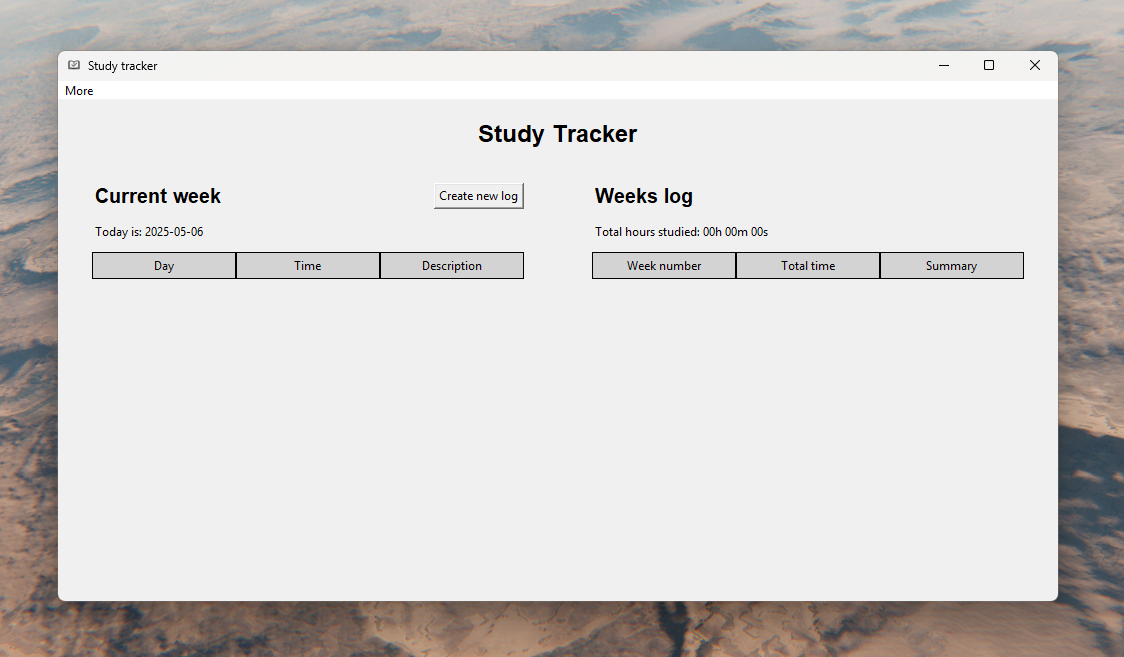
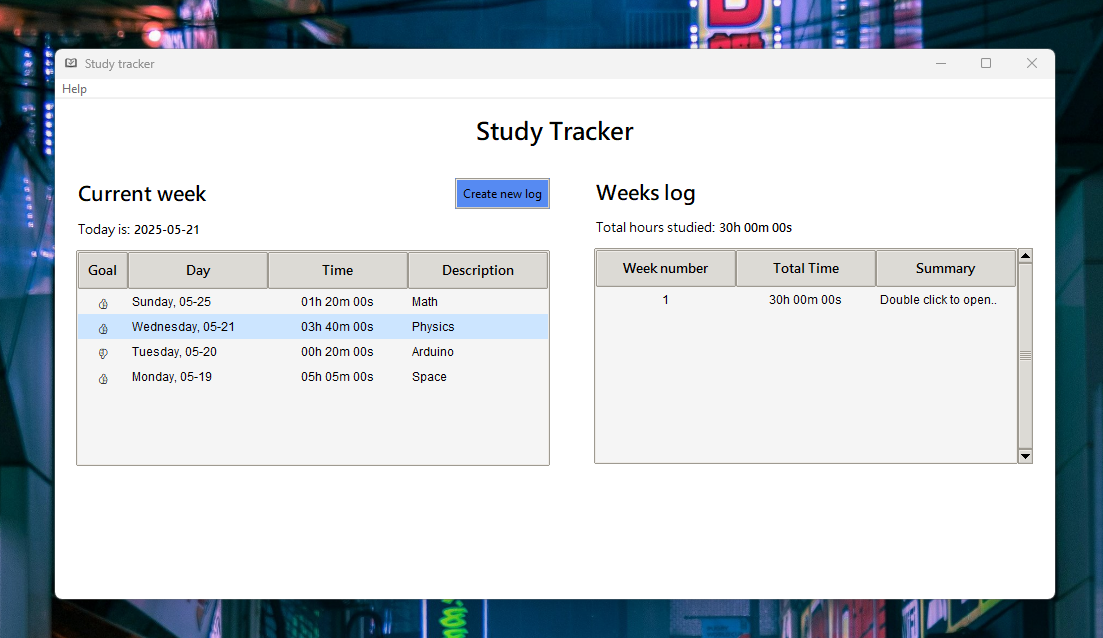
New improvements, bug fixes

diff --git a/src/main.py b/src/main.py
@@ -127,40 +127,90 @@ class Settings(tk.Toplevel):
     ttk.Label(self.frame_content, text="Settings", font=(StyleManager.get_current_font(), 16)).pack(padx=15, pady=15, anchor="nw")
     ttk.Separator(self.frame_content, orient="horizontal").pack(fill="x")
 
+    ############### APPEARANCE SECTION
     appearance_frame_content = ttk.Frame(self.frame_content)
-    appearance_frame_content.pack(pady=20)
+    appearance_frame_content.pack(side="top", pady=20)
     ttk.Label(appearance_frame_content, text="Appearance", font=(StyleManager.get_current_font(), 14, "bold")).pack(side="top", anchor="nw")
     ttk.Separator(appearance_frame_content, orient="horizontal").pack(side="top", fill="x", pady=10)
 
     frame_themes = ttk.Frame(appearance_frame_content)
     frame_themes.pack(side="top")
-    ttk.Label(frame_themes, text="Themes", anchor="w", width=20).pack(side="left")
+    ttk.Label(frame_themes, text="Themes", anchor="w", width=26).pack(side="left")
     themes_menu = ttk.Combobox(frame_themes, textvariable=self.current_theme_stringvar, values=StyleManager.get_all_themes(), width=20)
     themes_menu.pack(side="right")
     themes_menu.bind('<<ComboboxSelected>>', lambda event: change_theme(self.current_theme_stringvar.get()))
 
     frame_fonts = ttk.Frame(appearance_frame_content)
     frame_fonts.pack(side="top", pady=4)
-    ttk.Label(frame_fonts, text="Fonts", anchor="w", width=20).pack(side="left")
+    ttk.Label(frame_fonts, text="Fonts", anchor="w", width=26).pack(side="left")
     fonts_menu = ttk.Combobox(frame_fonts, textvariable=self.current_font_stringvar, values=StyleManager.get_all_fonts(), width=20)
     fonts_menu.pack(side="right")
     fonts_menu.bind('<<ComboboxSelected>>', lambda event: change_font(self.current_font_stringvar.get()))
 
+    ############### STUDY SETUP SECTION
     study_setup_content = ttk.Frame(self.frame_content)
-    study_setup_content.pack(pady=20)
+    study_setup_content.pack(side="top", pady=20)
     ttk.Label(study_setup_content, text="Study Setup", font=(StyleManager.get_current_font(), 14, "bold")).pack(side="top", anchor="nw")
     ttk.Separator(study_setup_content, orient="horizontal").pack(side="top", fill="x", pady=10)
-    ttk.Label(study_setup_content, text="Subjects", anchor="w", width=15).pack(side="left", anchor="nw")
 
-    frame_buttons_study_setup = ttk.Frame(study_setup_content)
+    frame_subjects = ttk.Frame(study_setup_content)
+    frame_subjects.pack(side="top", anchor="nw", pady=4)
+    ttk.Label(frame_subjects, text="Subjects", anchor="w", width=20).pack(side="left", anchor="nw")
+
+    frame_buttons_study_setup = ttk.Frame(frame_subjects)
     frame_buttons_study_setup.pack(side="right", anchor="nw")
     button_add_subject = ttk.Button(frame_buttons_study_setup, text="Add", width=5, command=lambda: self.add_subject())
-    button_add_subject.pack(side="top")
+    button_add_subject.pack(side="top", anchor="nw")
     button_delete_subject = ttk.Button(frame_buttons_study_setup, text="Del", width=5, style="Red.TButton", command=lambda: self.delete_subject())
     button_delete_subject.pack(side="top", pady=2)
 
-    self.listbox_subjects = tk.Listbox(study_setup_content, listvariable=self.subjects_available_stringvar, height=len(self.list_subjects_available))
+    self.listbox_subjects = tk.Listbox(frame_subjects, listvariable=self.subjects_available_stringvar, height=len(self.list_subjects_available))
     self.listbox_subjects.pack(side="right", padx=5, anchor="n")
+
+    frame_daily_goal = ttk.Frame(study_setup_content)
+    frame_daily_goal.pack(side="top", pady=4)
+    ttk.Label(frame_daily_goal, text="Daily goal", width=15).pack(side="left")
+
+    self.hours_inserted_stringvar = tk.StringVar()
+    self.minutes_inserted_stringvar = tk.StringVar()
+
+    with open(USER_CONFIG, "r") as readf:
+      data = json.load(readf)
+
+      self.hours_inserted_stringvar.set(data["session_goal"][0])
+      self.minutes_inserted_stringvar.set(data["session_goal"][1]) 
+
+      readf.close()
+
+    ttk.Button(frame_daily_goal, text="Apply", width=6, command=lambda: self.change_session_goal_time()).pack(side="right")
+
+    ttk.Label(frame_daily_goal, text="minutes").pack(side="right", padx=5)
+    ttk.Entry(frame_daily_goal, textvariable=self.minutes_inserted_stringvar, width=4).pack(side="right")
+
+    ttk.Label(frame_daily_goal, text="hours").pack(side="right", padx=5)
+    ttk.Entry(frame_daily_goal, textvariable=self.hours_inserted_stringvar, width=4).pack(side="right")
+
+
+  def change_session_goal_time(self):
+    new_hours = self.hours_inserted_stringvar.get()
+    new_minutes = self.minutes_inserted_stringvar.get()
+
+    try:
+      new_hours = abs(int(new_hours))
+      new_minutes = abs(int(new_minutes))
+
+      with open(USER_CONFIG, "r") as readf:
+        data = json.load(readf)
+        readf.close()
+
+      data["session_goal"] = [new_hours, new_minutes]
+
+      with open(USER_CONFIG, "w") as writef:
+        writef.write(json.dumps(data, indent=2))
+        writef.close()
+
+    except ValueError:
+      messagebox.showerror("Value error", "The values must be numeric to be valid.")
 
   def add_subject(self):
     self.NewSubjectWindow(self)

diff --git a/src/style.py b/src/style.py
@@ -62,7 +62,6 @@ class StyleManager:
   def change_theme(new_theme):
     with open(USER_CONFIG, "r") as readf:
       reader = json.load(readf)
-      readf.close()
 
     reader["theme"] = new_theme
 
@@ -73,7 +72,6 @@ class StyleManager:
   def change_font(new_font):
     with open(USER_CONFIG, "r") as readf:
       reader = json.load(readf)
-      readf.close()
 
     reader["font"] = new_font
 
@@ -88,15 +86,13 @@ class StyleManager:
   def get_current_theme():
     with open(USER_CONFIG, "r") as readf:
       reader = json.load(readf)
-      readf.close()
-    return reader["theme"]
+    return reader.get("theme", "Light")
   
   @staticmethod
   def get_current_font():
     with open(USER_CONFIG, "r") as readf:
       reader = json.load(readf)
-      readf.close()
-    return reader["font"]
+    return reader.get("font", "Arial")
 
   @staticmethod
   def get_all_themes():
